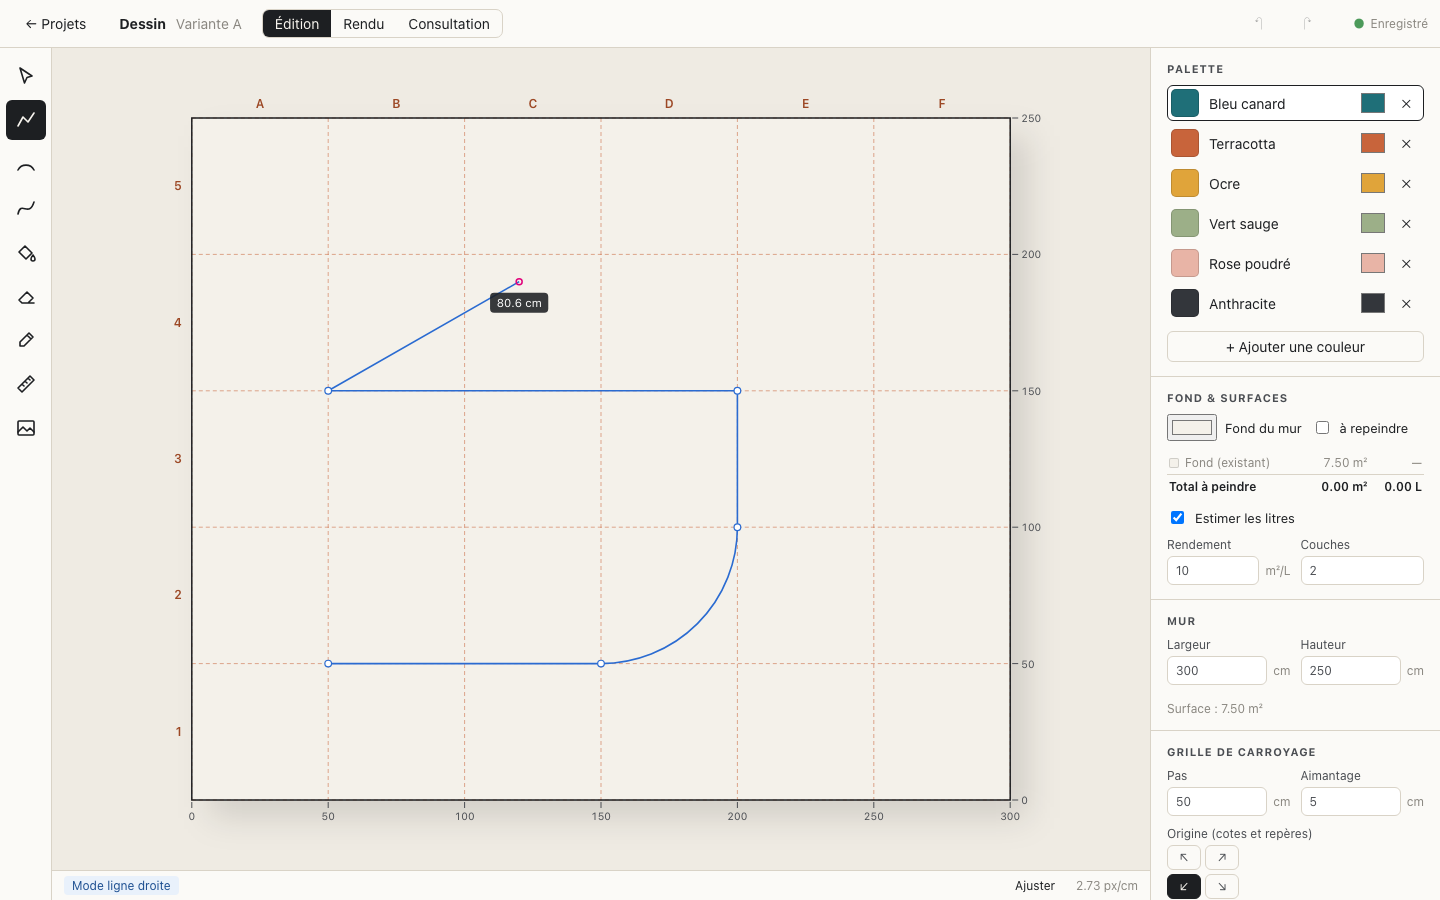
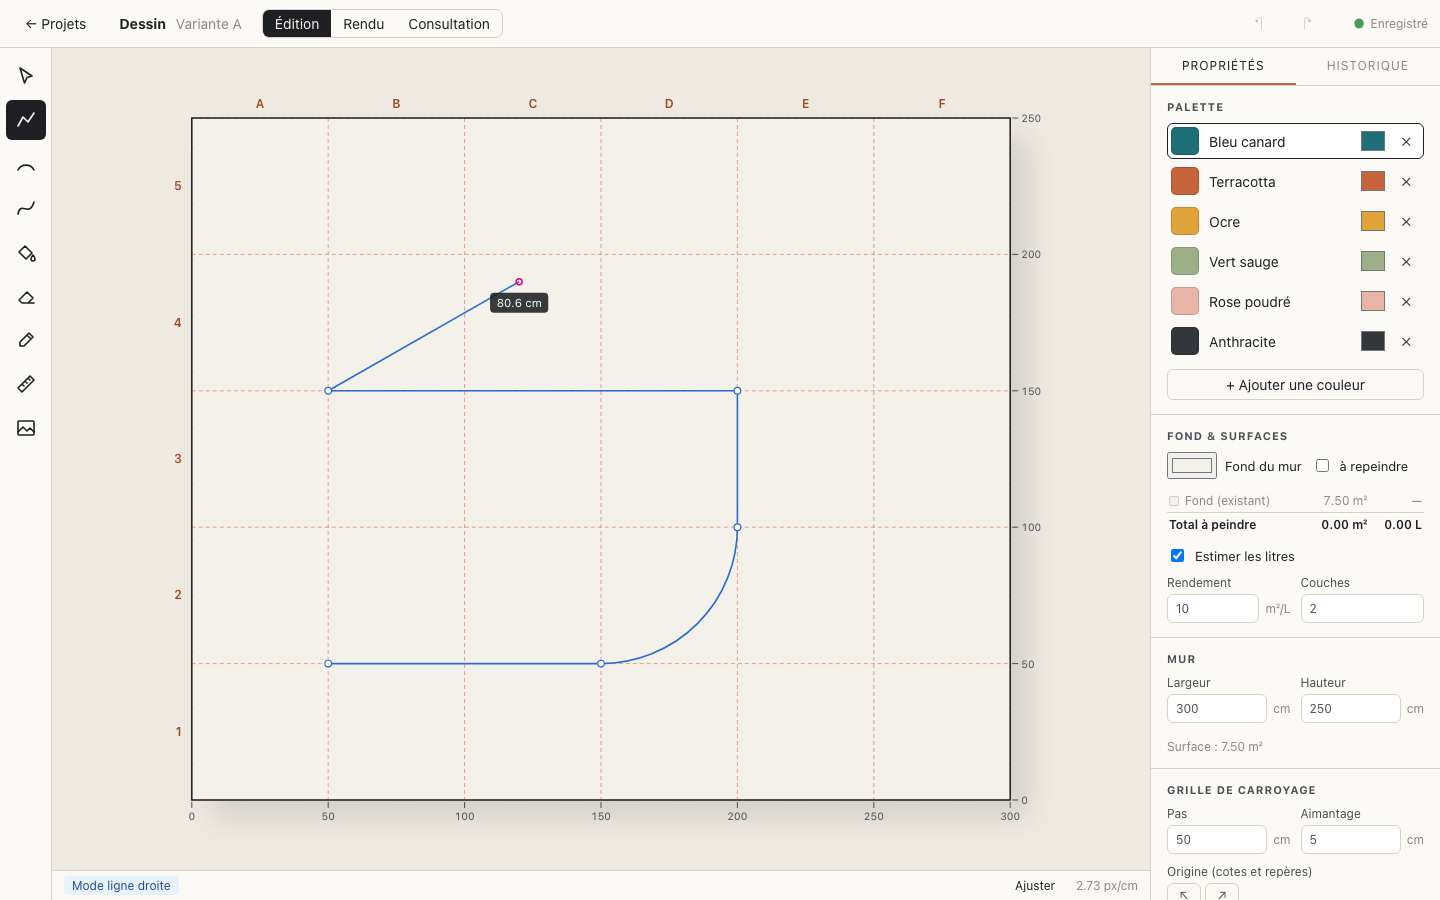
Étape 5 : historique illimité et frise navigable
- Onglet Historique : curseur temporel, liste horodatée, clic pour revenir à un état
- Aucune perte : modifier après un retour en arrière ajoute une étape « Retour à l'état #k »
- Position dans l'historique persistée ; test de charge (1500 modifications)

Changed region(s): [[0.8125, 0.0622, 1.0, 0.84], [0.8125, 0.84, 0.9688, 1.0], [0.9062, 0.6844, 0.9375, 0.8089]]

diff --git a/src/ui/HistoryPanel.tsx b/src/ui/HistoryPanel.tsx
@@ -1,0 +1,88 @@
+import { useEffect, useState } from 'react'
+import { useEditor, flushPersistence } from '../store/editor'
+import * as repo from '../store/repo'
+
+interface Row {
+  seq: number
+  label: string
+  ts: number
+}
+
+const fmtTime = (ts: number) => {
+  const d = new Date(ts)
+  const today = new Date()
+  const time = d.toLocaleTimeString('fr-FR', { hour: '2-digit', minute: '2-digit', second: '2-digit' })
+  return d.toDateString() === today.toDateString() ? time : `${d.toLocaleDateString('fr-FR')} ${time}`
+}
+
+export function HistoryPanel() {
+  const variant = useEditor((s) => s.variant)
+  const headSeq = useEditor((s) => s.headSeq)
+  const maxSeq = useEditor((s) => s.maxSeq)
+  const rev = useEditor((s) => s.rev)
+  const goTo = useEditor((s) => s.goTo)
+  const [rows, setRows] = useState<Row[]>([])
+  const [slider, setSlider] = useState(headSeq)
+
+  useEffect(() => setSlider(headSeq), [headSeq])
+
+  useEffect(() => {
+    if (!variant) return
+    let alive = true
+    flushPersistence().then(() =>
+      repo.listEntries(variant.id).then((es) => {
+        if (alive) setRows(es.map((e) => ({ seq: e.seq, label: e.label, ts: e.ts })).reverse())
+      }),
+    )
+    return () => {
+      alive = false
+    }
+  }, [variant, rev])
+
+  return (
+    <div className="history" data-testid="history-panel">
+      <div className="history-head">
+        <strong data-testid="history-count">{maxSeq} modification{maxSeq > 1 ? 's' : ''}</strong>
+        <span className="muted">position {headSeq}</span>
+      </div>
+      <input
+        type="range"
+        className="history-slider"
+        data-testid="history-slider"
+        min={0}
+        max={maxSeq}
+        value={slider}
+        onChange={(e) => {
+          const v = +e.target.value
+          setSlider(v)
+          goTo(v)
+        }}
+      />
+      <p className="hint" style={{ margin: 0 }}>
+        Glisse pour remonter le temps. Rien n’est jamais perdu : modifier après un retour en arrière ajoute une étape « Retour à l’état ».
+      </p>
+      <ol className="history-list">
+        {rows.map((r) => (
+          <li key={r.seq}>
+            <button
+              className={`history-item${r.seq === headSeq ? ' current' : ''}${r.seq > headSeq ? ' future' : ''}`}
+              data-testid="history-item"
+              onClick={() => goTo(r.seq)}
+            >
+              <span className="seq">#{r.seq}</span>
+              <span className="label">{r.label}</span>
+              <span className="time">{fmtTime(r.ts)}</span>
+            </button>
+          </li>
+        ))}
+        <li>
+          <button className={`history-item${headSeq === 0 ? ' current' : ''}`} data-testid="history-item" onClick={() => goTo(0)}>
+            <span className="seq">#0</span>
+            <span className="label">État initial</span>
+            <span className="time">{variant ? fmtTime(variant.createdAt) : ''}</span>
+          </button>
+        </li>
+      </ol>
+    </div>
+  )
+}

diff --git a/src/store/repo.test.ts b/src/store/repo.test.ts
@@ -51,7 +51,7 @@ describe('persistance', () => {
     expect(useEditor.getState().maxSeq).toBe(5)
   })
 
-  it('a new change after undo drops the redo branch', async () => {
+  it('a new change after undo keeps the abandoned branch in history', async () => {
     const { variant } = await repo.createProject('Salon')
     await useEditor.getState().load(variant.id)
     useEditor.getState().commit('a', (d) => { d.wall.w = 301 })
@@ -60,7 +60,13 @@ describe('persistance', () => {
     useEditor.getState().commit('c', (d) => { d.wall.h = 200 })
     await flushPersistence()
     const entries = await repo.listEntries(variant.id)
-    expect(entries.map((e) => e.label)).toEqual(['a', 'c'])
+    expect(entries.map((e) => e.label)).toEqual(['a', 'b', "Retour à l'état #1", 'c'])
+    expect(useEditor.getState().doc.wall).toEqual({ w: 301, h: 200 })
+    expect(useEditor.getState().headSeq).toBe(4)
+    // on peut toujours revenir à l'état « b »
+    await useEditor.getState().goTo(2)
+    expect(useEditor.getState().doc.wall).toEqual({ w: 302, h: 250 })
+    await useEditor.getState().goTo(4)
     expect(useEditor.getState().doc.wall).toEqual({ w: 301, h: 200 })
   })
 
@@ -81,4 +87,32 @@ describe('persistance', () => {
     expect(await repo.listProjects()).toHaveLength(0)
     expect(await db.entries.count()).toBe(0)
   })
+})
+
+describe('historique long', () => {
+  it('keeps 1500 changes and travels back and forth', async () => {
+    const { variant } = await repo.createProject('Long')
+    await useEditor.getState().load(variant.id)
+    for (let i = 0; i < 1500; i++) {
+      useEditor.getState().commit(`pt ${i}`, (d) => {
+        d.shapes.push({ id: `s${i}`, pts: [{ x: i % 300, y: 0 }, { x: i % 300, y: 10 }], segs: [{ t: 'line' }], closed: false })
+      })
+    }
+    await flushPersistence()
+    expect(await db.entries.where('variantId').equals(variant.id).count()).toBe(1500)
+    const t0 = performance.now()
+    await useEditor.getState().goTo(0)
+    expect(useEditor.getState().doc.shapes).toHaveLength(0)
+    await useEditor.getState().goTo(750)
+    expect(useEditor.getState().doc.shapes).toHaveLength(750)
+    await useEditor.getState().goTo(1500)
+    expect(useEditor.getState().doc.shapes).toHaveLength(1500)
+    expect(performance.now() - t0).toBeLessThan(5000)
+    // l'état persiste après rechargement, position comprise
+    await useEditor.getState().goTo(1200)
+    await useEditor.getState().load(variant.id)
+    expect(useEditor.getState().headSeq).toBe(1200)
+    expect(useEditor.getState().maxSeq).toBe(1500)
+    expect(useEditor.getState().doc.shapes).toHaveLength(1200)
+  }, 30000)
 })

diff --git a/e2e/step5-history.spec.ts b/e2e/step5-history.spec.ts
@@ -1,0 +1,44 @@
+import { expect, test } from '@playwright/test'
+import { clickWall, newProject, resetDb, SHOTS } from './helpers'
+
+test('frise d’historique : revenir à n’importe quel état, persistant', async ({ page }) => {
+  await resetDb(page)
+  await newProject(page, 'Historique')
+  await page.getByTestId('tool-polyline').click()
+  for (let i = 0; i < 4; i++) {
+    await clickWall(page, 30 + i * 60, 40)
+    await clickWall(page, 30 + i * 60, 210)
+    await page.keyboard.press('Enter')
+  }
+  await page.getByTestId('swatch-Vert sauge').click()
+  await clickWall(page, 60, 100)
+  await page.getByTestId('tab-history').click()
+  await expect(page.getByTestId('history-count')).toHaveText('5 modifications')
+  await expect(page.getByTestId('history-item')).toHaveCount(6)
+  await expect(page.getByTestId('history-item').first()).toContainText('Peindre (Vert sauge)')
+  // revenir à l'état #2
+  await page.getByTestId('history-item').filter({ hasText: '#2' }).click()
+  await expect(page.getByTestId('shapes').locator('path')).toHaveCount(2)
+  await expect(page.getByTestId('fills').locator('path')).toHaveCount(0)
+  await page.screenshot({ path: `${SHOTS}/step5-01-frise-historique.png` })
+  // persistant après rechargement
+  await page.reload()
+  await expect(page.getByTestId('shapes').locator('path')).toHaveCount(2)
+  await page.getByTestId('tab-history').click()
+  await expect(page.getByTestId('history-count')).toHaveText('5 modifications')
+  // curseur jusqu'au bout
+  const slider = page.getByTestId('history-slider')
+  await slider.focus()
+  await page.keyboard.press('End')
+  await expect(page.getByTestId('shapes').locator('path')).toHaveCount(4)
+  await expect(page.getByTestId('fills').locator('path')).toHaveCount(1)
+  // revenir en arrière puis modifier : la suite n'est pas perdue
+  await page.getByTestId('history-item').filter({ hasText: '#3' }).click()
+  await page.getByTestId('tool-polyline').click()
+  await clickWall(page, 280, 40)
+  await clickWall(page, 280, 210)
+  await page.keyboard.press('Enter')
+  await expect(page.getByTestId('history-count')).toHaveText('7 modifications')
+  await expect(page.getByTestId('history-item').nth(1)).toContainText("Retour à l'état #3")
+  await page.screenshot({ path: `${SHOTS}/step5-02-historique-sans-perte.png` })
+})

diff --git a/src/index.css b/src/index.css
@@ -181,3 +181,20 @@ input:focus { outline: 2px solid var(--accent); outline-offset: -1px; }
 .surf-table td.num { text-align: right; }
 .surf-table .dot { display: inline-block; width: 10px; height: 10px; border-radius: 2px; margin-right: 6px; vertical-align: -1px; border: 1px solid rgba(0,0,0,0.15); }
 .surf-table tfoot td { font-weight: 600; border-bottom: 0; }
+
+/* ---------- Onglets & historique ---------- */
+.side-panel { display: flex; flex-direction: column; }
+.side-tabs { display: flex; border-bottom: 1px solid var(--line); position: sticky; top: 0; background: var(--panel); z-index: 1; }
+.side-tabs button { flex: 1; border: 0; border-radius: 0; background: transparent; padding: 10px; font-size: 12px; text-transform: uppercase; letter-spacing: 0.08em; color: var(--muted); border-bottom: 2px solid transparent; }
+.side-tabs button.on { color: var(--ink); border-bottom-color: var(--accent); background: transparent; }
+.history { padding: 14px 16px; display: flex; flex-direction: column; gap: 10px; min-height: 0; flex: 1; }
+.history-head { display: flex; justify-content: space-between; align-items: baseline; }
+.history-slider { width: 100%; accent-color: var(--accent); }
+.history-list { list-style: none; margin: 0; padding: 0; display: grid; gap: 2px; overflow-y: auto; }
+.history-item { width: 100%; display: grid; grid-template-columns: 42px 1fr auto; gap: 6px; text-align: left; border: 0; background: transparent; padding: 5px 6px; font-size: 12px; border-radius: 5px; }
+.history-item:hover { background: rgba(0,0,0,0.04); }
+.history-item .seq { color: var(--muted); font-variant-numeric: tabular-nums; }
+.history-item .time { color: var(--muted); font-variant-numeric: tabular-nums; font-size: 11px; }
+.history-item.current { background: var(--ink); color: var(--paper-2); }
+.history-item.current .seq, .history-item.current .time { color: rgba(255,255,255,0.7); }
+.history-item.future { opacity: 0.45; }

diff --git a/src/store/repo.ts b/src/store/repo.ts
@@ -60,20 +60,27 @@ export async function getProject(id: string) {
 
 /**
  * Enregistre une modification : nouvelle entrée d'historique + état courant.
- * Les entrées « rétablir » au-delà de headSeq sont supprimées.
+ * Si on avait remonté le temps, rien n'est perdu : une entrée « Retour à l'état #k »
+ * est d'abord ajoutée (elle annule la suite), puis la nouvelle modification.
  */
 export async function recordChange(variantId: string, label: string, state: DocState, patches: Patch[], inverse: Patch[]) {
   return db.transaction('rw', db.variants, db.entries, db.projects, async () => {
     const v = await db.variants.get(variantId)
     if (!v) throw new Error('variante introuvable')
-    const seq = v.headSeq + 1
+    const ts = now()
+    let seq = v.maxSeq + 1
     if (v.maxSeq > v.headSeq) {
-      await db.entries.where('[variantId+seq]').between([variantId, seq], [variantId, Infinity], true, true).delete()
+      const future = await db.entries.where('[variantId+seq]').between([variantId, v.headSeq + 1], [variantId, v.maxSeq], true, true).toArray()
+      future.sort((a, b) => a.seq - b.seq)
+      const back = [...future].reverse().flatMap((e) => e.inverse)
+      const fwd = future.flatMap((e) => e.patches)
+      await db.entries.put({ variantId, seq, label: `Retour à l'état #${v.headSeq}`, ts, patches: back, inverse: fwd })
+      seq++
     }
-    const entry: HistoryEntry = { variantId, seq, label, ts: now(), patches, inverse }
+    const entry: HistoryEntry = { variantId, seq, label, ts, patches, inverse }
     await db.entries.put(entry)
-    await db.variants.update(variantId, { state, headSeq: seq, maxSeq: seq, updatedAt: entry.ts })
-    await db.projects.update(v.projectId, { updatedAt: entry.ts })
+    await db.variants.update(variantId, { state, headSeq: seq, maxSeq: seq, updatedAt: ts })
+    await db.projects.update(v.projectId, { updatedAt: ts })
     return seq
   })
 }

diff --git a/src/ui/Editor.tsx b/src/ui/Editor.tsx
@@ -5,6 +5,7 @@ import { Canvas } from './Canvas'
 import { navigate } from './router'
 import { GridSection, WallSection } from './SidePanel'
 import { Toolbar } from './Toolbar'
+import { HistoryPanel } from './HistoryPanel'
 import { SelectionSection } from './SelectionSection'
 import { PaletteSection, SurfacesSection } from './PaintSections'
 import { copySelection, duplicateSelection, pasteClipboard } from '../tools/select'
@@ -50,13 +51,32 @@ export function Editor({ variantId }: { variantId: string }) {
         <StatusBar />
       </main>
       <aside className="side-panel">
-        <SelectionSection />
-        <PaletteSection />
-        <SurfacesSection />
-        <WallSection />
-        <GridSection />
+        <SideTabs />
       </aside>
     </div>
+  )
+}
+
+function SideTabs() {
+  const [tab, setTab] = useState<'props' | 'history'>('props')
+  return (
+    <>
+      <div className="side-tabs" role="tablist">
+        <button role="tab" className={tab === 'props' ? 'on' : ''} aria-selected={tab === 'props'} onClick={() => setTab('props')} data-testid="tab-props">Propriétés</button>
+        <button role="tab" className={tab === 'history' ? 'on' : ''} aria-selected={tab === 'history'} onClick={() => setTab('history')} data-testid="tab-history">Historique</button>
+      </div>
+      {tab === 'props' ? (
+        <>
+          <SelectionSection />
+          <PaletteSection />
+          <SurfacesSection />
+          <WallSection />
+          <GridSection />
+        </>
+      ) : (
+        <HistoryPanel />
+      )}
+    </>
   )
 }
 

diff --git a/src/store/editor.ts b/src/store/editor.ts
@@ -107,14 +107,15 @@ export const useEditor = create<EditorState>((set, get) => ({
   },
 
   commit(label, recipe) {
-    const { doc, variant, headSeq } = get()
+    const { doc, variant, headSeq, maxSeq } = get()
     if (!variant) return
     const [next, patches, inverse] = produceWithPatches(doc, (d) => {
       recipe(d)
       for (const h of afterChangeHooks) h(doc, d)
     })
     if (!patches.length) return
-    const seq = headSeq + 1
+    // après un retour en arrière, une entrée « Retour à l'état » est insérée avant (voir repo.recordChange)
+    const seq = maxSeq > headSeq ? maxSeq + 2 : headSeq + 1
     set((s) => ({ doc: next, headSeq: seq, maxSeq: seq, saving: s.saving + 1, rev: s.rev + 1 }))
     enqueue(() => repo.recordChange(variant.id, label, next, patches, inverse)).finally(() =>
       set((s) => ({ saving: s.saving - 1 })),
